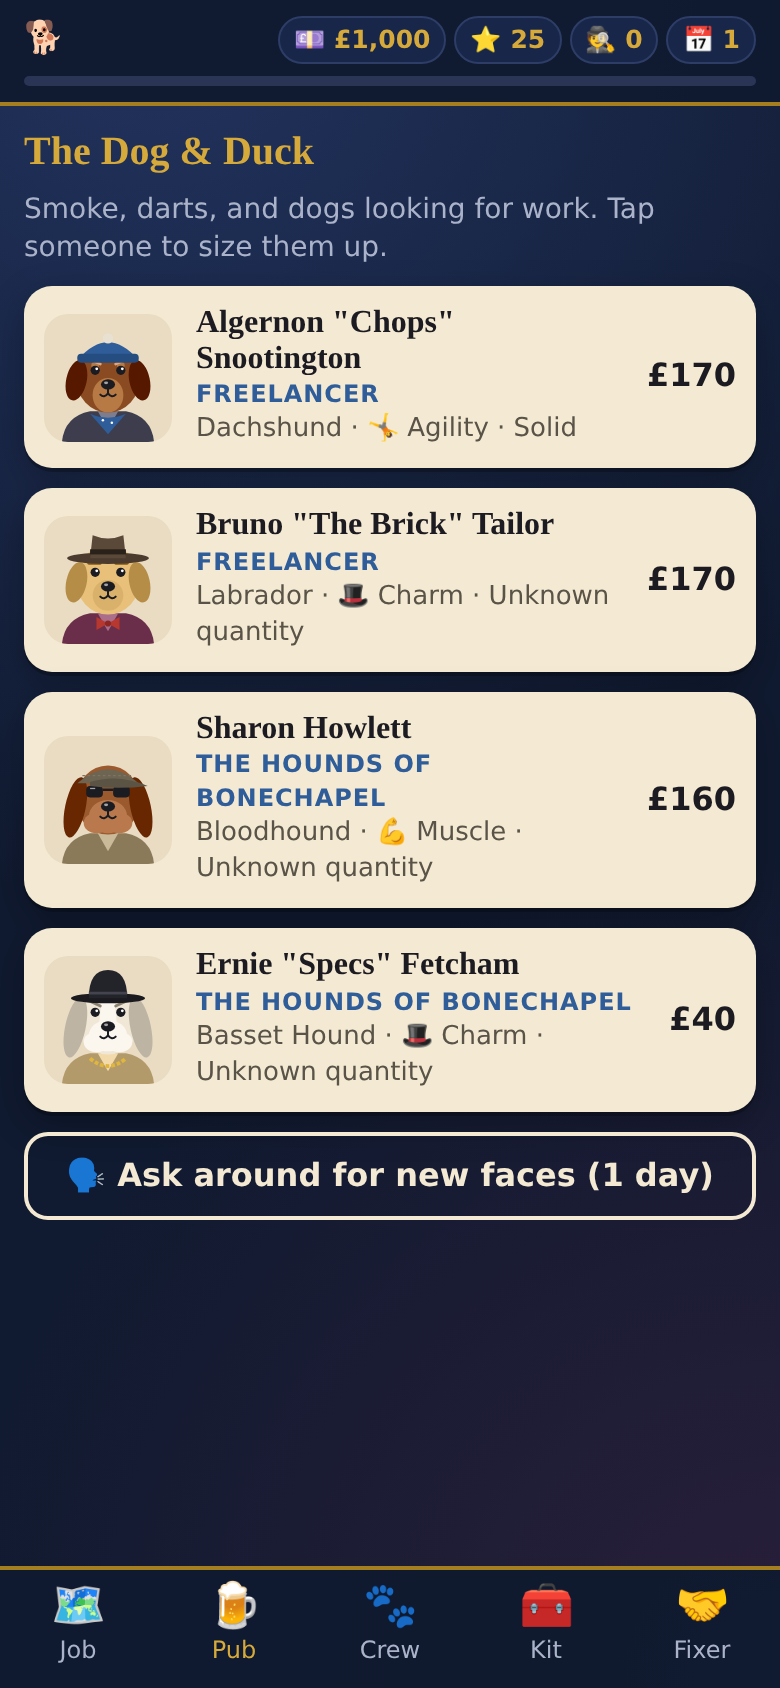
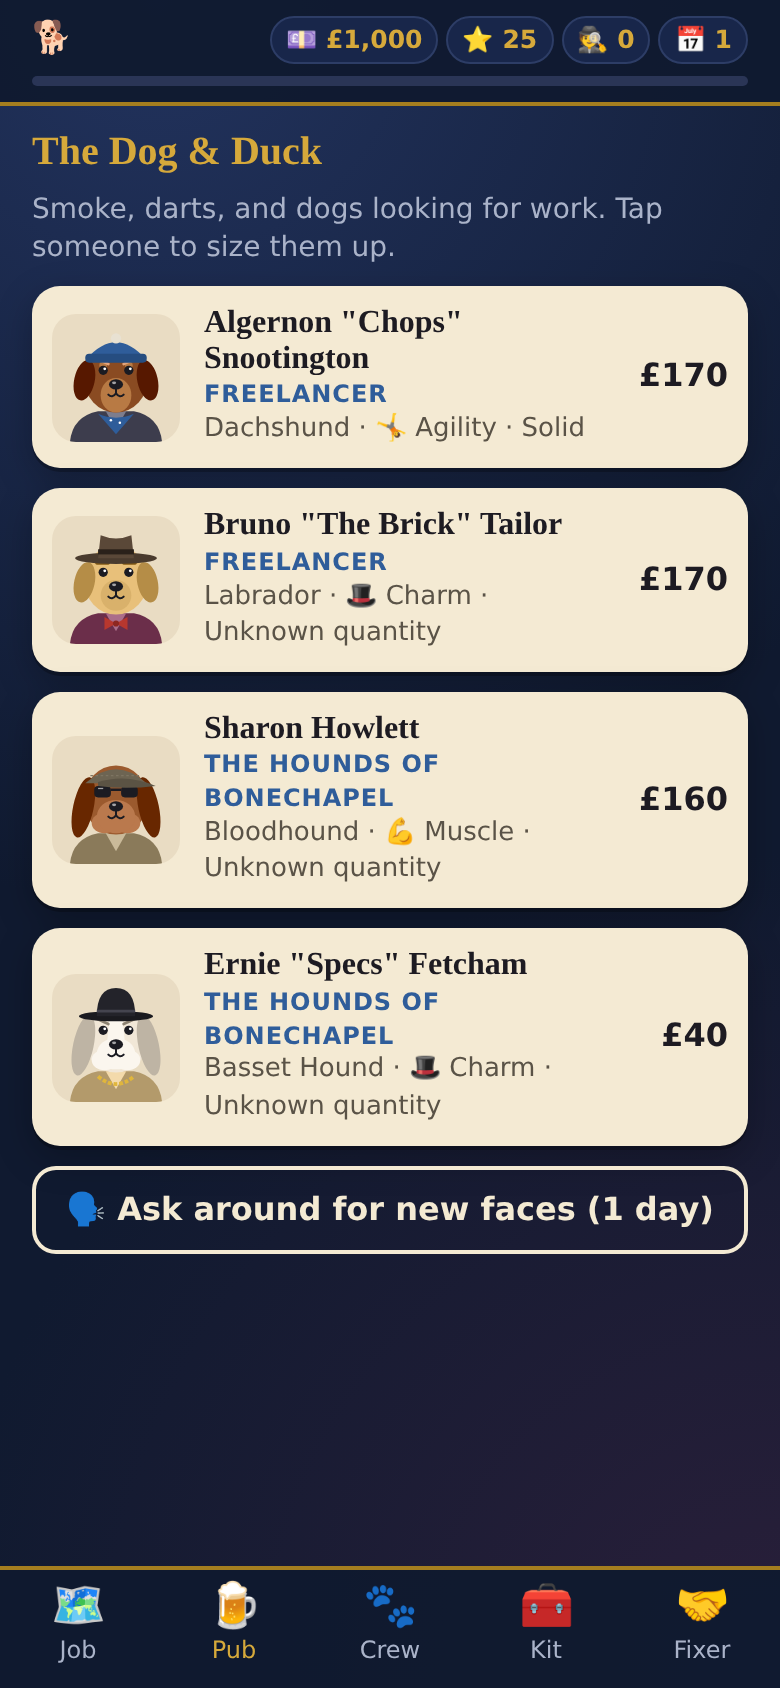
Share card: in-page preview with native share/save; safe-area sticky headers; 16px gutters; modal text contrast
Claude-Session: https://claude.ai/code/session_0119DQBJUjuLkFW8ZZge45qz

diff --git a/styles.css b/styles.css
@@ -30,20 +30,19 @@ body {
   font-family: var(--font-body);
   font-size: 16px;
   line-height: 1.4;
-  min-height: 100vh;
+  min-height: 100svh;
   -webkit-tap-highlight-color: transparent;
   overflow-x: hidden;
 }
 button { font: inherit; color: inherit; cursor: pointer; }
-#app { max-width: 540px; margin: 0 auto; min-height: 100vh; display: flex; flex-direction: column; }
+#app { max-width: 540px; margin: 0 auto; min-height: 100svh; display: flex; flex-direction: column; }
 
 /* ---------- header */
 .topbar {
-  position: sticky; top: 0; z-index: 20;
+  position: sticky; top: env(safe-area-inset-top, 0px); z-index: 20;
   background: rgba(16, 26, 48, .96);
   border-bottom: 2px solid var(--brass-dark);
-  padding: 8px 12px calc(8px) 12px;
-  padding-top: max(8px, env(safe-area-inset-top));
+  padding: 8px 16px;
 }
 .topbar-row { display: flex; align-items: center; justify-content: space-between; gap: 8px; }
 .logo { font-family: var(--font-title); font-weight: 900; letter-spacing: .04em; color: var(--brass); font-size: 16px; }
@@ -57,7 +56,7 @@ button { font: inherit; color: inherit; cursor: pointer; }
 .heatbar > i { display: block; height: 100%; background: linear-gradient(90deg, #e9c46a, #e76f51, #c23b2e); }
 
 /* ---------- content */
-main { flex: 1; padding: 12px 12px 96px; }
+main { flex: 1; padding: 12px 16px 96px; }
 h1, h2, h3 { font-family: var(--font-title); margin: 0 0 8px; line-height: 1.15; }
 h2 { font-size: 20px; color: var(--brass); }
 h3 { font-size: 16px; }
@@ -81,8 +80,9 @@ p { margin: 0 0 8px; }
   display: inline-flex; align-items: center; justify-content: center; gap: 6px;
   min-height: 44px; padding: 10px 16px; border-radius: 12px; border: 0;
   background: var(--brass); color: #1d1606; font-weight: 700;
-  box-shadow: 0 3px 0 var(--brass-dark); transition: transform .05s;
+  box-shadow: 0 3px 0 var(--brass-dark); transition: transform .05s; text-decoration: none;
 }
+.btn:focus-visible, .opt:focus-visible, .assignee:focus-visible, .dog-card:focus-visible, .nav button:focus-visible { outline: 3px solid var(--brass); outline-offset: 2px; }
 .btn:active { transform: translateY(2px); box-shadow: 0 1px 0 var(--brass-dark); }
 .btn.block { width: 100%; }
 .btn.big { font-size: 19px; min-height: 56px; font-family: var(--font-title); letter-spacing: .03em; }
@@ -114,7 +114,7 @@ p { margin: 0 0 8px; }
 .nav button .badge { position: absolute; margin-left: 22px; margin-top: -2px; background: var(--red); color: #fff; font-size: 10px; border-radius: 999px; padding: 0 5px; }
 
 /* ---------- title */
-.title-screen { text-align: center; padding: 28px 16px 40px; display: flex; flex-direction: column; align-items: center; gap: 14px; min-height: 100vh; justify-content: center; }
+.title-screen { text-align: center; padding: 28px 16px 40px; display: flex; flex-direction: column; align-items: center; gap: 14px; min-height: 92svh; justify-content: center; }
 .title-logo { font-family: var(--font-title); font-size: clamp(44px, 14vw, 72px); font-weight: 900; letter-spacing: .06em; color: var(--brass); text-shadow: 0 4px 0 #6d5213, 0 10px 30px rgba(0, 0, 0, .5); margin: 0; }
 .title-tag { font-family: var(--font-title); font-size: 18px; color: var(--paper); margin-top: -6px; }
 .title-portrait { width: 180px; height: 180px; border-radius: 50%; overflow: hidden; border: 4px solid var(--brass); box-shadow: 0 10px 40px rgba(0, 0, 0, .5); background: var(--paper-2); }
@@ -171,6 +171,7 @@ p { margin: 0 0 8px; }
 .modal { background: var(--paper); color: var(--ink); width: 100%; max-width: 540px; max-height: 92vh; overflow-y: auto; border-radius: 18px 18px 0 0; padding: 16px 16px calc(20px + env(safe-area-inset-bottom)); box-shadow: 0 -10px 40px rgba(0, 0, 0, .5); animation: up .18s ease-out; }
 @keyframes up { from { transform: translateY(40px); opacity: .5; } }
 .modal h2 { color: var(--ink); }
+.modal .muted { color: var(--ink-soft); }
 .modal .close { float: right; background: var(--paper-2); border: 0; border-radius: 999px; width: 40px; height: 40px; font-size: 20px; }
 .modal .portrait-big { width: 120px; height: 120px; border-radius: 16px; overflow: hidden; flex: none; }
 .modal .portrait-big svg { width: 100%; height: 100%; display: block; }
@@ -212,7 +213,7 @@ p { margin: 0 0 8px; }
 
 /* ---------- heist playback */
 .heist { display: flex; flex-direction: column; gap: 10px; }
-.heist-head { position: sticky; top: 0; z-index: 6; background: var(--night); padding: 8px 0 6px; margin-top: -12px; display: flex; flex-direction: column; gap: 6px; box-shadow: 0 10px 12px -8px rgba(0,0,0,.6); }
+.heist-head { position: sticky; top: env(safe-area-inset-top, 0px); z-index: 6; background: var(--night); padding: 8px 0 6px; margin-top: -12px; display: flex; flex-direction: column; gap: 6px; box-shadow: 0 10px 12px -8px rgba(0,0,0,.6); }
 .heist-head h2 { font-size: 17px; white-space: nowrap; overflow: hidden; text-overflow: ellipsis; min-width: 0; flex: 1; }
 .alarm { display: flex; gap: 3px; align-items: center; }
 .alarm i { flex: 1; height: 12px; border-radius: 3px; background: #2a3556; display: block; }
@@ -269,6 +270,7 @@ p { margin: 0 0 8px; }
 /* ---------- diagnostics overlay */
 #diag { position: fixed; top: 4px; left: 4px; z-index: 100; background: rgba(0, 0, 0, .78); color: #7CFC9A; font: 11px/1.3 ui-monospace, Menlo, monospace; padding: 6px 8px; border-radius: 6px; pointer-events: none; max-width: 70vw; white-space: pre-wrap; }
 
+.card-preview { display: block; width: 100%; max-width: 360px; margin: 0 auto 12px; border-radius: 14px; box-shadow: var(--shadow); }
 .center { text-align: center; }
 .mt { margin-top: 12px; }
 .sr { position: absolute; width: 1px; height: 1px; overflow: hidden; clip: rect(0 0 0 0); }

diff --git a/src/ui.js b/src/ui.js
@@ -5,6 +5,7 @@ import { SKILLS, SKILL_INFO, TALENTS, QUIRKS, BREEDS, FACTIONS, KIT, APPROACHES,
 import { portraitSVG, displayName, shortName, skillOf, relationLabel, band, topSkills } from './dogs.js';
 import { visibleStages, totalLootValue } from './heists.js';
 import { odds, oddsKnown, approachAvailable, ALARM_MAX } from './sim.js';
+import { canShareFiles } from './card.js';
 
 export const SCREENS = ['title', 'intro', 'job', 'pub', 'crew', 'kit', 'fixer', 'plan', 'heist', 'aftermath', 'over'];
 export const PLAN_TABS = [
@@ -480,6 +481,7 @@ function renderModal(G) {
   let inner = '';
   if (m.type === 'dog') inner = dogModal(G, G.state.dogs[m.id]);
   else if (m.type === 'pick') inner = pickModal(G, m.purpose);
+  else if (m.type === 'card') inner = cardModal(G, G.state.dogs[m.id]);
   root.innerHTML = `<div class="modal-back" data-act="close-modal"><div class="modal" data-stop role="dialog" aria-modal="true"><button class="close" data-act="close-modal" aria-label="Close">✕</button>${inner}</div></div>`;
 }
 
@@ -514,6 +516,15 @@ function dogModal(G, d) {
     <h3>Talents</h3>${talents}
     <h3 class="mt">Character</h3>${trait('loyalty', 'Loyalty')}${trait('nerve', 'Nerve')}${trait('greed', 'Greed')}${quirks}
     <div class="stack mt">${actions.join('')}</div>`;
+}
+
+function cardModal(G, d) {
+  if (!G.card || G.card.id !== d.id) return '';
+  const name = `crimedog-${d.first.toLowerCase()}.png`;
+  return `<h2>${esc(shortName(d))}'s card</h2>
+    <img class="card-preview" src="${G.card.url}" alt="Character card for ${esc(displayName(d))}" data-card-preview>
+    <p class="muted center">Long-press or right-click the card to save it.</p>
+    <div class="btn-row">${canShareFiles() ? '<button class="btn" data-act="share-native">📤 Share</button>' : ''}<a class="btn ghost" href="${G.card.url}" download="${esc(name)}">💾 Save</a></div>`;
 }
 
 function pickModal(G, purpose) {

diff --git a/src/card.js b/src/card.js
@@ -68,24 +68,27 @@ export async function cardPNG(dog) {
   }
 }
 
-export async function shareCard(dog) {
-  const blob = await cardPNG(dog);
+// Try the native share sheet; the caller shows the PNG in a modal either way,
+// so players inside sandboxed viewers can long-press to save it.
+export async function shareBlob(dog, blob) {
   const name = `crimedog-${dog.first.toLowerCase()}.png`;
   const file = new File([blob], name, { type: 'image/png' });
-  const text = `${displayName(dog)} — "${dog.catchphrase}" #Crimedog`;
+  const text = `${displayName(dog)}: "${dog.catchphrase}" #Crimedog`;
   if (navigator.canShare && navigator.canShare({ files: [file] })) {
     try {
       await navigator.share({ files: [file], title: displayName(dog), text });
       return 'shared';
     } catch (e) {
-      if (e && e.name === 'AbortError') return 'cancelled';
+      return e && e.name === 'AbortError' ? 'cancelled' : 'failed';
     }
   }
-  const a = document.createElement('a');
-  a.href = URL.createObjectURL(blob);
-  a.download = name;
-  document.body.appendChild(a);
-  a.click();
-  setTimeout(() => { URL.revokeObjectURL(a.href); a.remove(); }, 1000);
-  return 'downloaded';
+  return 'unsupported';
+}
+
+export function canShareFiles() {
+  try {
+    return !!(navigator.canShare && navigator.canShare({ files: [new File([''], 'x.png', { type: 'image/png' })] }));
+  } catch {
+    return false;
+  }
 }

diff --git a/src/main.js b/src/main.js
@@ -2,7 +2,7 @@
 import * as E from './engine.js';
 import { render, currentScreen } from './ui.js';
 import { installDebug, updateOverlay } from './debug.js';
-import { shareCard } from './card.js';
+import { cardPNG, shareBlob } from './card.js';
 
 const SAVE_KEY = 'crimedog.save.v1';
 const params = new URLSearchParams(location.search);
@@ -142,13 +142,23 @@ const A = {
     run(E.farm, id);
   },
   async 'share'(el) {
+    const dog = G.state.dogs[el.dataset.id];
     try {
-      const how = await shareCard(G.state.dogs[el.dataset.id]);
-      toast(how === 'shared' ? 'Shared!' : how === 'downloaded' ? 'Card saved.' : '');
+      const blob = await cardPNG(dog);
+      if (G.card?.url) URL.revokeObjectURL(G.card.url);
+      G.card = { id: dog.id, blob, url: URL.createObjectURL(blob) };
+      G.ui.modal = { type: 'card', id: dog.id };
+      G.render();
     } catch (e) {
-      toast('Couldn\'t make the card.', true);
+      toast('Couldn\'t draw the card.', true);
       logError(e);
     }
+  },
+  async 'share-native'() {
+    if (!G.card) return;
+    const how = await shareBlob(G.state.dogs[G.card.id], G.card.blob);
+    if (how === 'shared') toast('Shared.');
+    else if (how !== 'cancelled') toast('Sharing isn\'t available here. Long-press the card to save it.', true);
   },
   'plan-ap'(el) {
     const st = el.dataset.stage;
